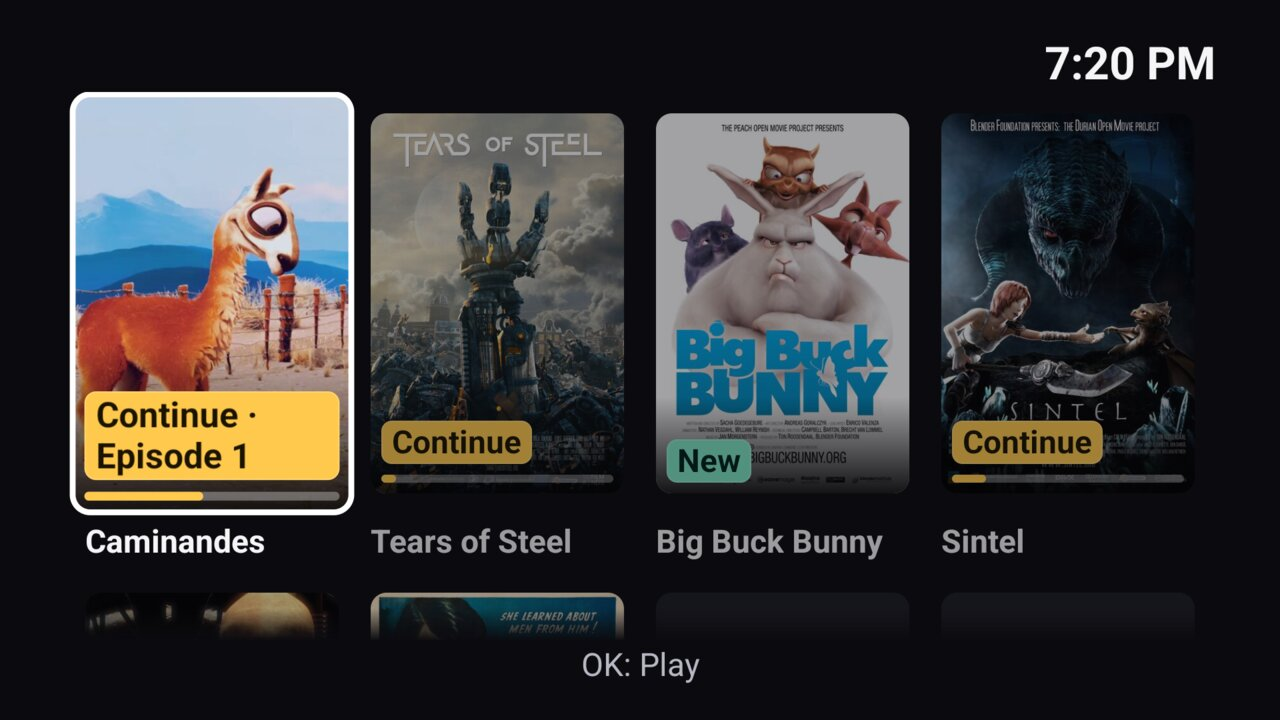
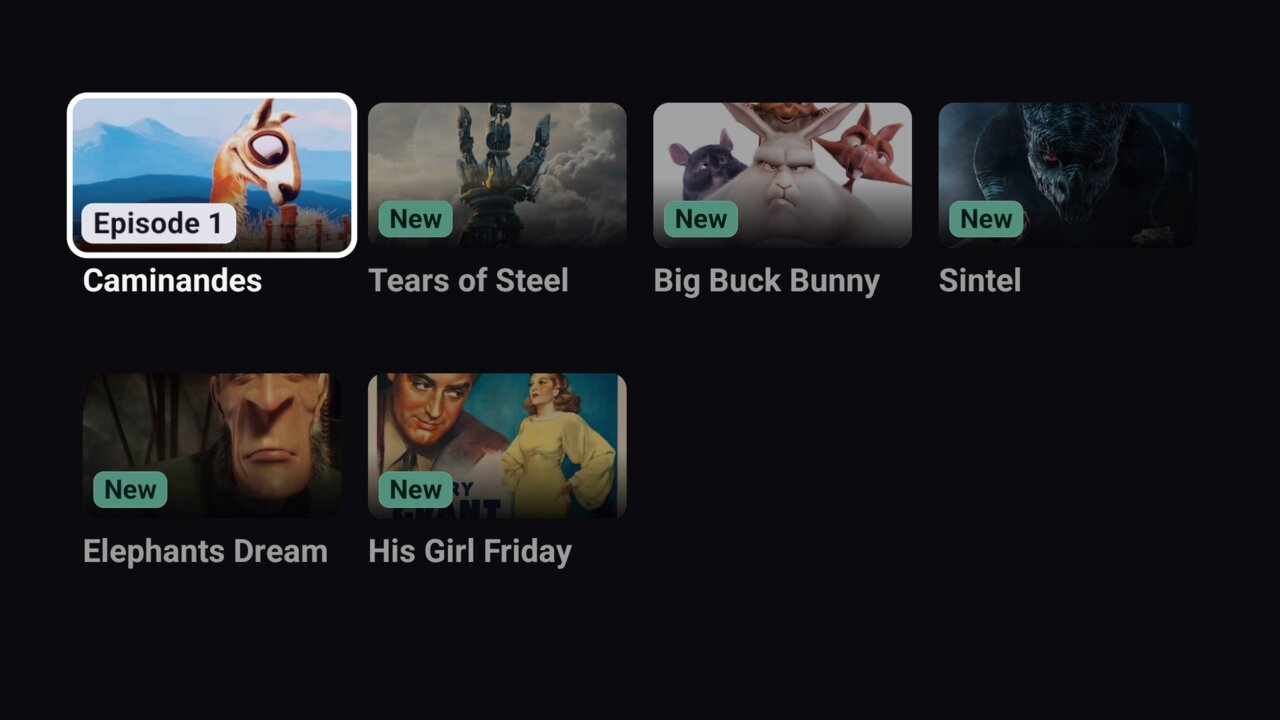
Home grid: crop posters to the card, document the new Home
- A show without a backdrop shows its poster cropped to the landscape card (a band 28 % down) instead of the
  whole poster on a blurred copy of itself.
- senior-tv.md: Home section rewritten for the columns × rows grid, row-by-row scrolling, card pictures, 20 sp
  chips (the one exception to the 24 sp floor), no clock or hint, message and offline chip over the grid.
- CHANGELOG [Unreleased], specs and decisions follow; README, project page and tv-home.jpg show the new grid.

diff --git a/android/app/src/main/java/io/github/mickeiik/izle/ui/home/HomeScreen.kt b/android/app/src/main/java/io/github/mickeiik/izle/ui/home/HomeScreen.kt
@@ -1,6 +1,5 @@
 package io.github.mickeiik.izle.ui.home
 
-import android.os.Build
 import androidx.compose.foundation.ExperimentalFoundationApi
 import androidx.compose.foundation.background
 import androidx.compose.foundation.border
@@ -40,16 +39,15 @@ import androidx.compose.runtime.remember
 import androidx.compose.runtime.rememberUpdatedState
 import androidx.compose.runtime.setValue
 import androidx.compose.ui.Alignment
+import androidx.compose.ui.BiasAlignment
 import androidx.compose.ui.Modifier
 import androidx.compose.ui.draw.alpha
-import androidx.compose.ui.draw.blur
 import androidx.compose.ui.focus.FocusRequester
 import androidx.compose.ui.focus.focusProperties
 import androidx.compose.ui.focus.focusRequester
 import androidx.compose.ui.focus.onFocusChanged
 import androidx.compose.ui.graphics.Brush
 import androidx.compose.ui.graphics.Color
-import androidx.compose.ui.graphics.FilterQuality
 import androidx.compose.ui.layout.ContentScale
 import androidx.compose.ui.platform.LocalDensity
 import androidx.compose.ui.res.pluralStringResource
@@ -72,9 +70,6 @@ import androidx.tv.material3.CardDefaults
 import androidx.tv.material3.MaterialTheme
 import androidx.tv.material3.Text
 import coil3.compose.AsyncImage
-import coil3.compose.LocalPlatformContext
-import coil3.request.ImageRequest
-import coil3.size.Precision
 import io.github.mickeiik.izle.R
 import io.github.mickeiik.izle.data.api.HomeEntry
 import io.github.mickeiik.izle.data.api.TvState
@@ -99,9 +94,8 @@ import kotlin.math.roundToInt
 private val ScrollIndicatorWidth = 6.dp
 private val ScrollIndicatorEndGap = 22.dp
 
-/** The size the poster is decoded at for the blurred copy filling its card: scaled up, it is blurry by itself. */
-private const val BLUR_DECODE_WIDTH = 24
-private const val BLUR_DECODE_HEIGHT = 36
+/** Where a portrait poster is cut to fill a landscape card: a band 28 % of the way down, above the poster's centre. */
+private val PosterCrop = BiasAlignment(horizontalBias = 0f, verticalBias = -0.44f)
 
 /**
  * The only screen the viewer navigates: a grid of 16:9 cards filling the screen, the owner's columns × rows of them
@@ -346,8 +340,9 @@ private fun Tile(
 }
 
 /**
- * The backdrop, cropped to the card; else the whole poster over a blurred, dimmed copy of itself; else (or when the
- * picture cannot be loaded) the show's title in the card. A picture is described by the show's title.
+ * The backdrop, cropped to the card; else the poster, cropped to the card around its upper part (where posters keep
+ * faces and titles); else (or when the picture cannot be loaded) the show's title in the card. A picture is
+ * described by the show's title.
  */
 @Composable
 private fun BoxScope.CardPicture(backdropUrl: String?, posterUrl: String?, title: String, titleLines: Int) {
@@ -362,7 +357,15 @@ private fun BoxScope.CardPicture(backdropUrl: String?, posterUrl: String?, title
                 onError = { backdropFailed = true },
                 modifier = Modifier.fillMaxSize(),
             )
-        posterUrl != null && !posterFailed -> PosterOnBlur(posterUrl, title, onError = { posterFailed = true })
+        posterUrl != null && !posterFailed ->
+            AsyncImage(
+                model = posterUrl,
+                contentDescription = title,
+                contentScale = ContentScale.Crop,
+                alignment = PosterCrop,
+                onError = { posterFailed = true },
+                modifier = Modifier.fillMaxSize(),
+            )
         else -> Text(
             title,
             style = MaterialTheme.typography.titleSmall.copy(hyphens = Hyphens.Auto, lineBreak = LineBreak.Heading),
@@ -373,40 +376,6 @@ private fun BoxScope.CardPicture(backdropUrl: String?, posterUrl: String?, title
             modifier = Modifier.align(Alignment.Center).padding(HomeGrid.CARD_TEXT_PADDING.dp),
         )
     }
-}
-
-/**
- * The portrait poster whole in the landscape card, the rest filled with a blurred copy of it. The copy is decoded
- * tiny and scaled up smoothly, which blurs it on any Android version; from Android 12 a real blur smooths it further.
- */
-@Composable
-private fun PosterOnBlur(posterUrl: String, title: String, onError: () -> Unit) {
-    val context = LocalPlatformContext.current
-    val tiny = remember(posterUrl, context) {
-        ImageRequest.Builder(context)
-            .data(posterUrl)
-            .size(BLUR_DECODE_WIDTH, BLUR_DECODE_HEIGHT)
-            .precision(Precision.EXACT)
-            // Its own memory cache entry: the full-size poster must not stand in for the tiny one.
-            .memoryCacheKey("$posterUrl#blur")
-            .build()
-    }
-    val blur = if (Build.VERSION.SDK_INT >= Build.VERSION_CODES.S) Modifier.blur(12.dp) else Modifier
-    AsyncImage(
-        model = tiny,
-        contentDescription = null,
-        contentScale = ContentScale.Crop,
-        filterQuality = FilterQuality.High,
-        modifier = Modifier.fillMaxSize().then(blur),
-    )
-    Box(Modifier.fillMaxSize().background(IzleColors.PosterBlurShade))
-    AsyncImage(
-        model = posterUrl,
-        contentDescription = title,
-        contentScale = ContentScale.Fit,
-        onError = { onError() },
-        modifier = Modifier.fillMaxSize(),
-    )
 }
 
 /**

diff --git a/site/index.html b/site/index.html
@@ -4,14 +4,14 @@
   <meta charset="utf-8">
   <meta name="viewport" content="width=device-width, initial-scale=1">
   <title>izle — switch on, press OK, it plays</title>
-  <meta name="description" content="A senior-first Android TV player with a small self-hosted server. One screen of big posters: OK plays the next episode. Everything else is done remotely from your phone.">
+  <meta name="description" content="A senior-first Android TV player with a small self-hosted server. One grid of big show cards: OK plays the next episode. Everything else is done remotely from your phone.">
   <meta name="color-scheme" content="dark light">
   <link rel="canonical" href="https://mickeiik.github.io/izle/">
   <meta property="og:type" content="website">
   <meta property="og:site_name" content="izle">
   <meta property="og:url" content="https://mickeiik.github.io/izle/">
   <meta property="og:title" content="izle — switch on, press OK, it plays">
-  <meta property="og:description" content="A senior-first Android TV player with a small self-hosted server. One screen of big posters: OK plays the next episode. Everything else is done remotely from your phone.">
+  <meta property="og:description" content="A senior-first Android TV player with a small self-hosted server. One grid of big show cards: OK plays the next episode. Everything else is done remotely from your phone.">
   <meta property="og:image" content="https://mickeiik.github.io/izle/share-card.jpg">
   <meta property="og:image:width" content="1280">
   <meta property="og:image:height" content="640">
@@ -36,7 +36,7 @@
       <div class="hero-copy">
         <p class="eyebrow">Open source · self-hosted · Android TV</p>
         <h1>Switch on.<br>Press <span class="ok-word">OK</span>.<br>It plays.</h1>
-        <p class="lede">izle is a TV player for someone who only knows classic television. One screen of big posters, and the
+        <p class="lede">izle is a TV player for someone who only knows classic television. One grid of big show cards, and the
           OK button plays the next episode. You run everything else from your phone.</p>
         <div class="ctas">
           <a class="btn primary" href="#try">Try it in 10 minutes</a>
@@ -47,7 +47,7 @@
       <figure class="tv-demo">
         <div class="tv">
           <div class="screen">
-            <img id="screen-home" src="images/tv-home.jpg" alt="The TV's home screen: four large posters, the focused one says Continue · Episode 1" width="1280" height="720">
+            <img id="screen-home" src="images/tv-home.jpg" alt="The TV's home screen: a grid of wide cards with each show's name under it, the focused one says Episode 1" width="1280" height="720">
             <img id="screen-player" src="images/tv-player.jpg" alt="The player, paused: show, episode and a progress bar in large type" width="1280" height="720" hidden>
           </div>
         </div>
@@ -70,7 +70,7 @@
         <p class="eyebrow">For the person you set it up for</p>
         <h2>It works like a TV channel, not a streaming app</h2>
         <p>Episodes follow one another on their own. When something goes wrong, the TV shows a short message in large
-          letters and goes back to the posters by itself. There is nothing to get lost in.</p>
+          letters and goes back to the shows by itself. There is nothing to get lost in.</p>
         <p>The app is in English and Turkish, with audio and subtitle languages chosen for each TV.</p>
       </div>
       <img class="shot" src="images/tv-message.jpg" alt="A message from the owner, Dinner is ready!, in large letters over the picture" width="1280" height="720" loading="lazy">

diff --git a/android/app/src/main/java/io/github/mickeiik/izle/ui/theme/Theme.kt b/android/app/src/main/java/io/github/mickeiik/izle/ui/theme/Theme.kt
@@ -65,9 +65,6 @@ object IzleColors {
     /** The bottom of a card, behind its chip. */
     val PosterShade = Color(0xE6000000)
 
-    /** Over the blurred copy of a poster that fills a Home card around the poster itself. */
-    val PosterBlurShade = Color(0x73000000)
-
     /** Home's scroll indicator: neutral, it only informs. */
     val ScrollTrack = Color(0x24FFFFFF)
     val ScrollThumb = Color(0x99FFFFFF)

diff --git a/docs/ux/senior-tv.md b/docs/ux/senior-tv.md
@@ -6,42 +6,47 @@ remotely from the admin page (`/admin/` on the server) or, on the TV itself, beh
 
 ## Principles
 
-1. **Home → OK → plays.** One screen of poster tiles. OK on a tile plays the right episode at the right place:
+1. **Home → OK → plays.** One grid of show cards. OK on a card plays the right episode at the right place:
    the next unwatched episode, or the half-watched one where it was left.
 2. **Back always goes home**, and Back on Home does nothing: the viewer cannot fall out of the app. (The remote's
    HOME button belongs to the system; when it is pressed the app saves the position and comes back on Home.)
 3. **Every error ends on Home by itself**, after a short, large message. Nothing waits for an answer.
-4. **Nothing small.** No text below 24 sp on the 960×540 dp TV canvas; high contrast; one focused element with a
-   thick white border, everything else dimmed; nothing that matters outside the 5 % safe margins (48 dp left and
-   right, 27 dp top and bottom), where many TVs crop the picture.
-5. **Owner-controlled.** Which shows appear, their order, "continue from episode X", UI language, audio and
-   subtitle languages, autoplay on start, play/stop/pause/resume/seek/next/previous and short messages all come
-   from the server and apply live. When something goes wrong the TV tells the owner (problem reports), not the
-   viewer.
+4. **Nothing small.** No text below 24 sp on the 960×540 dp TV canvas, except the chips on Home cards (20 sp,
+   short words in solid colours); high contrast; one focused element with a thick white border, everything else
+   dimmed; nothing that matters outside the 5 % safe margins (48 dp left and right, 27 dp top and bottom), where
+   many TVs crop the picture.
+5. **Owner-controlled.** Which shows appear, their order, how many fit on one screen, "continue from episode X", UI
+   language, audio and subtitle languages, autoplay on start, play/stop/pause/resume/seek/next/previous and short
+   messages all come from the server and apply live. When something goes wrong the TV tells the owner (problem
+   reports), not the viewer.
 
 ## Screens
 
 ### Home
 
-- Up to 12 poster tiles (190×285 dp, 2:3) in a 4-column grid inside the safe margins; one row (≤ 4 shows) fits
-  without scrolling. With more, the next row peeks in under the first and fades out at the bottom edge; moving down
-  brings the focused row up to the top, poster and title fully in view, and the row above leaves the screen.
-- The focused tile scales to 110 % with a 4 dp white border, its title clear of the grown poster; the others are
-  dimmed.
-- Under the poster: the title (24 sp bold, up to 2 lines). On the poster, at the bottom, a solid chip says what OK
-  will do, readable on dark and bright posters alike: mint for "New", the warm accent when OK resumes ("Continue",
-  "Continue · Episode 2", with a progress bar under it), light grey otherwise ("Episode 5", "Watch again"). A
-  missing poster shows the show's title in its place.
+- A grid of wide 16:9 cards fills the safe area, with nothing above or below it (no clock, no hint). The owner sets
+  how many columns (3–6) and rows (1–4) one screen shows, per TV, from the admin page (default 4 × 2); the cards are
+  sized to fill the screen and the change applies live. Exactly that many rows show: when there are more shows,
+  moving down from the last visible row scrolls the grid by one row (up from the first scrolls back), and a thin
+  scroll bar in the right margin shows where the screen is in the list. Left and right stop at a row's ends.
+- The focused card scales to 110 % with a 4 dp white border, its name clear of the grown card; the others are dimmed.
+- Under the card: the show's name (24 sp bold), on two lines when that leaves the card as large as one line would,
+  else on one, cut with "…" only when it is longer than that.
+- The card's picture is the catalog's landscape image (`backdrop`); a show without one shows its poster, cropped to
+  the card around its upper part, and a show without any picture shows its name in the card.
+- On the card, at the bottom, a solid chip says what OK will do, readable on dark and bright pictures alike: mint
+  for "New", the warm accent when OK resumes ("Continue", "Continue · Episode 2", with a progress bar under it),
+  light grey otherwise ("Episode 5", "Watch again"). The chip only shows when it fits on one line; on smaller cards
+  the progress bar and the short "New" chip stay.
 - When episodes were added to a show since the viewer last watched it (or since it was put on Home), a small dark
-  chip at the poster's top right counts them ("2 new", read out as "2 new episodes"; the server's `newEpisodes`).
+  chip at the card's top right counts them ("2 new", read out as "2 new episodes"; the server's `newEpisodes`).
   Quieter than the bottom chip, it only informs: it takes no focus, never changes what OK plays, and goes away once
   an episode of the show has been played.
-- Top right: a clock (24-hour or 12-hour following the TV's setting, or the TV's own language when that is unset).
-  Bottom: the hint "OK: Play" (Back does nothing on Home, so it is not offered).
 - The tile played last gets the focus back; after a live reorder the focus stays on the same show.
 - No shows: "Nothing here yet" in large type.
 - Server unreachable: the last home screen stays (cached), a solid red "No connection" chip with dark text appears
-  top left, the TV retries every 10 s, and OK shows "No connection · Trying again…" for 5 s instead of playing.
+  over the grid at the top left, the TV retries every 10 s, and OK shows "No connection · Trying again…" for 5 s
+  instead of playing.
 - **Autoplay on start** (per TV, owner setting, off by default): when the app comes to the front on Home (the TV is
   switched on, the app starts, or the viewer comes back from the launcher) and the first home state fetched from the
   server in that moment says so, the show played last on this TV if it is on Home (else the first tile) is offered
@@ -53,10 +58,8 @@ remotely from the admin page (`/admin/` on the server) or, on the TV itself, beh
   key was pressed; the hidden menu and the tiles wait while it shows.
 - **Messages from the owner** appear as a banner (30 sp bold, stepping down to 24 sp only for the longest ones, dark
   on yellow, up to 3 lines, no focus, no buttons) for the time the owner chose, on Home and over the playing video
-  (playback goes on); other screens ignore them. On Home the banner sits in the top band, left of the clock, and
-  covers nothing: the band grows to fit it, the tiles move down and the hint makes room; a message that does not fit
-  beside the clock in three lines takes the band's full width under the clock. Over the video, the hidden menu or
-  the autoplay countdown it is drawn across the top.
+  (playback goes on); other screens ignore them. On Home, as over the video, the hidden menu or the autoplay
+  countdown, it is drawn across the top; the cards under it do not move.
 
 ### Player
 
@@ -174,7 +177,6 @@ izle.
 
 | Key | English | Türkçe |
 |---|---|---|
-| Home hint | OK: Play | OK: Oynat |
 | Empty home | Nothing here yet | Henüz içerik yok |
 | Chip: new / continue / watch again | New / Continue / Watch again | Yeni / Devam et / Tekrar izle |
 | Chip: episode | Episode 5 · Season 2, Episode 5 · Continue · Episode 5 | Bölüm 5 · Sezon 2, Bölüm 5 · Devam et · Bölüm 5 |

diff --git a/CHANGELOG.md b/CHANGELOG.md
@@ -7,6 +7,25 @@ contract share one version number. How to update (back up, update the server, th
 
 ## [Unreleased]
 
+### Added
+
+- **Home grid size per TV:** the owner sets how many columns (3–6) and rows (1–4) one screen of the TV's Home shows,
+  in the TV's settings on the admin page (default 4 × 2); the TV applies it live. The admin API takes `homeColumns`
+  and `homeRows` in `PATCH /api/v1/admin/devices/:id`, and the TV reads them from `GET /api/v1/tv/state`.
+- **Landscape pictures in catalogs:** a catalog item may carry an optional 16:9 `backdrop` image next to its poster
+  (an additive change to the v1 bundle contract, checked by `izle-validate` like posters). The server sends it as
+  `backdropUrl`; the TV shows it on the show's card.
+
+### Changed
+
+- **The TV's Home is a grid of wide cards** that fills the screen, with each show's name in full under its card (on
+  two lines when there is room). Shows that do not fit on one screen are reached by moving down, one row at a time,
+  with a thin scroll bar at the right. A show without a landscape picture shows a landscape crop of its poster.
+  The chips on the cards ("New", "Episode 5", "2 new") are smaller (20 sp), and the long "Continue ·
+  Episode 2" chip only shows on cards wide enough for it. The clock and the "OK: Play" hint are gone; the owner's
+  message and "No connection" are drawn over the top of the grid.
+- **Home holds up to 200 shows** instead of 12 (`homeMax` in the admin API).
+
 ## [0.3.0] - 2026-10-18
 
 ### Added

diff --git a/README.md b/README.md
@@ -8,11 +8,11 @@ A senior-first Android TV player with a small self-hosted server. Project page: 
 
 | The TV: one screen, OK plays | The owner's admin page |
 |---|---|
-| ![The TV's home screen: four large posters, the focused one says "Continue · Episode 1"](docs/images/tv-home.jpg) | ![The admin page of a TV: what is playing, playback buttons, a message box and the home screen's shows](docs/images/admin-tv-page.jpg) |
+| ![The TV's home screen: a grid of wide cards with each show's name under it, the focused one says "Episode 1"](docs/images/tv-home.jpg) | ![The admin page of a TV: what is playing, playback buttons, a message box and the home screen's shows](docs/images/admin-tv-page.jpg) |
 | ![The player, paused: show, episode and a progress bar in large type](docs/images/tv-player.jpg) | ![A message from the owner, "Dinner is ready!", in large letters over the picture](docs/images/tv-message.jpg) |
 
 izle is built for a viewer who only knows classic TV: switch on, pick a "channel", it plays. The TV shows one
-screen of big poster tiles. OK plays the next unwatched episode (or resumes the half-watched one), episodes
+grid of big show cards. OK plays the next unwatched episode (or resumes the half-watched one), episodes
 advance on their own, and Back always returns to that single home screen. There is no browsing, no seasons
 list, no settings in the viewer's path.
 

diff --git a/docs/decisions.md b/docs/decisions.md
@@ -172,9 +172,9 @@ server 132 → 129, TV 129 → 126, the dropped ones covered by another test thr
 - A card's picture falls back on its own: a backdrop that fails to load gives way to the poster, a poster that fails
   to the title drawn in the card. The picture's content description is the show's title, since the name under the
   card is outside the clickable card.
-- Poster on blur: the blurred copy is a second Coil request decoded at 24×36 px under its own memory-cache key (the
-  full poster must not stand in for it), scaled up with smooth filtering; `Modifier.blur` (Android 12+ only) and a
-  45 % black shade on top.
+- Without a backdrop the poster is cropped to the card at a band 28 % of the way down (vertical bias −0.44), not at
+  its centre: posters keep faces and titles in their upper part. The owner preferred this crop to the whole poster
+  on a blurred copy of itself, which the prototype also showed.
 - The "2 new" chip shows only when it fits the card's width and clears the bottom chip and bar: it gives way on
   short cards (6 columns, 4 rows, and 5 columns when a progress bar is shown).
 - The scroll spec is exact, with no tolerance: Compose asks it again on every frame of the scroll, so a tolerance

diff --git a/docs/spec/server-api-v1.md b/docs/spec/server-api-v1.md
@@ -129,8 +129,8 @@ Everything the home screen needs:
   16:9 cards, `homeColumns` per row and `homeRows` rows per screen; the rest of the list scrolls.
 - `home`: the owner's list in the owner's order (≤ 200, a safety limit), without items that left the catalog or have
   no `playbackAllowed` episode. `posterUrl` and `backdropUrl` (the catalog's optional landscape image) are relative
-  to the server's base URL, each null without its image; without a backdrop the TV draws the poster on a blurred
-  copy of itself.
+  to the server's base URL, each null without its image; without a backdrop the TV crops the poster to a landscape
+  band.
 - `continue`: what OK plays, the item's cursor episode ([Play order](#play-order-and-the-cursor)). `status`: `new`
   (never started), `watching` (`positionMs` is the saved position), `finished` (`positionMs` 0: it starts over).
   `index`/`count`: the position in the item's play order.

diff --git a/docs/spec/catalog-bundle-v1.md b/docs/spec/catalog-bundle-v1.md
@@ -112,8 +112,8 @@ server treats as matching every preferred language).
    `playbackAllowed` is required on every episode. izle never infers either from season/number fields.
 4. **Content-addressed images.** A poster or backdrop file's name is the lowercase hex SHA-256 of its bytes and
    its extension matches its content type. Posters SHOULD be 2:3, around 400×600, and well under 1 MiB.
-   Backdrops SHOULD be 16:9, around 1280×720, well under 1 MiB; the TV draws the poster on a blurred copy of
-   itself when there is none.
+   Backdrops SHOULD be 16:9, around 1280×720, well under 1 MiB; without one the TV crops the poster
+   to a landscape band.
 5. **Movies have exactly one episode.**
 6. **Episode ids are unique across the bundle** (the TV API addresses episodes by id alone).
 7. **No secrets.** Bundles SHOULD NOT contain credentials or signed, expiring URLs; resolve those at play time
